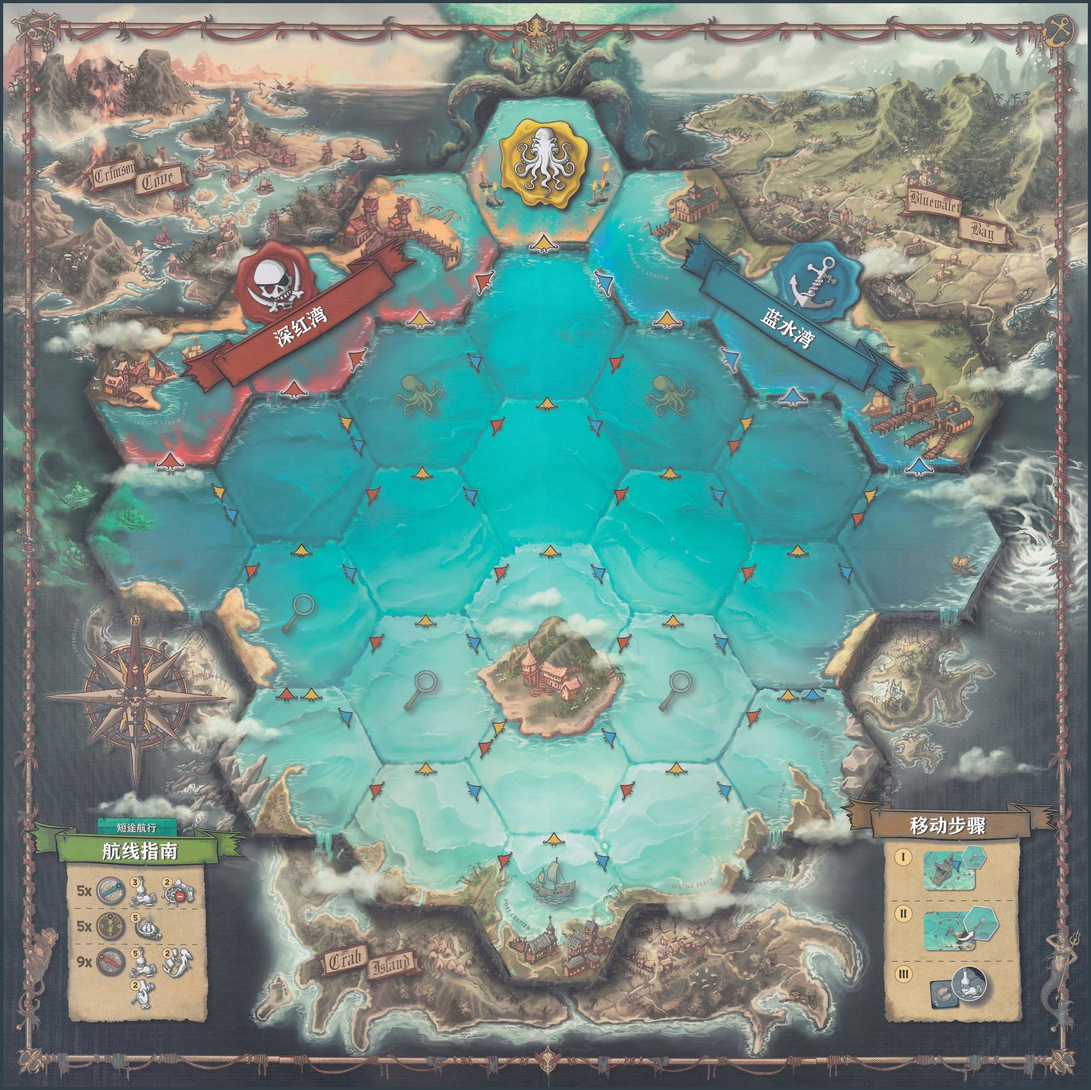
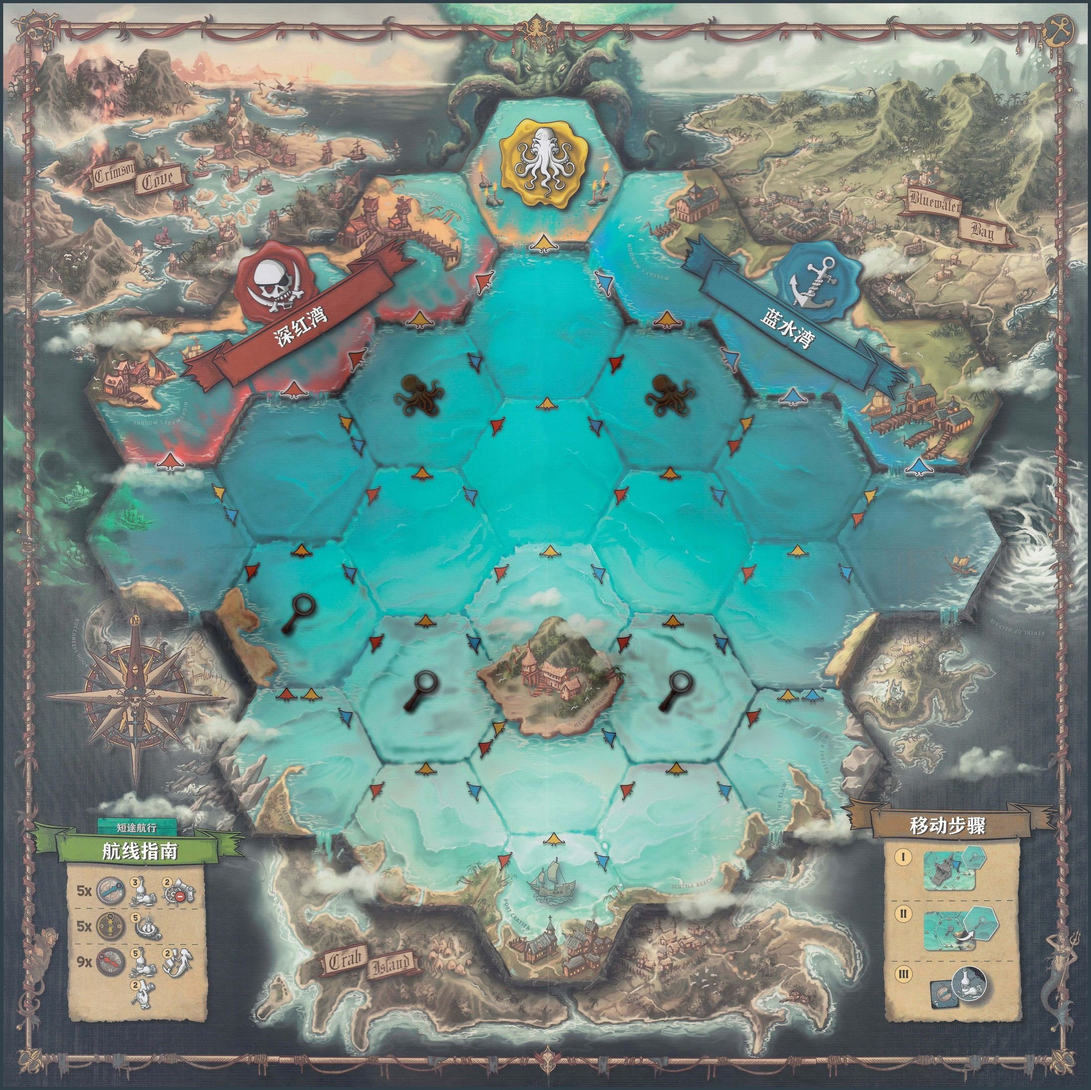
feat(client): drop prologue skip, mask hint, darker map marks, chat captain tag
- Prologue: the 跳过 » pill is gone — the story reads through and the
  ⚓ 登船 click is the only exit (it was also invisible on phones,
  buried under the mobile tab bar).
- Topbar: the faction pill now carries an always-visible
  (点击隐藏身份)/(点击显示身份) hint — the title tooltip is hover-only
  and phones never see it.
- Map: the art's captain-search magnifiers (3) and kraken marks (2)
  were painted too faint for screen scale; each marker region now gets
  a colour-distance + low-saturation darkening pass baked into the jpg
  (local-background contrast pull, feathered mask, no bleed onto
  route arrows or parchment).
- Chat: the sitting captain's messages are tagged 🧭 船长 beside the
  sender name, matching the roster's officer marker.

diff --git a/packages/client/src/StoryPrologue.tsx b/packages/client/src/StoryPrologue.tsx
@@ -3,8 +3,8 @@
  * launch countdown starts (all seats confirmed), every screen swaps to a
  * full-veil reading of the voyage's opening story — three stanzas fading in
  * one after another over the storm-deck art, one every 4 seconds (≈13.6s
- * total). 跳过 » boards at once; when the story completes, a ⚓ 登船 button
- * surfaces — the board takes over only on the player's click.
+ * total). When the story completes, a ⚓ 登船 button surfaces — the board
+ * takes over only on the player's click.
  * Nothing is stored engine-side; sessionStorage per match+seat keeps a
  * mid-game refresh from replaying it.
  *
@@ -20,8 +20,8 @@ import { useEffect, useRef, useState } from 'react';
 import { PROLOGUE_STANZAS } from './labels.js';
 
 /** Reading pace: one stanza every 4s (user-tuned — char-based pacing read
- *  as dead air). 跳过 » always skips straight to the board; after the final
- *  beat holds its 4s, the ⚓ 登船 button appears and waits for the click. */
+ *  as dead air). After the final beat holds its 4s, the ⚓ 登船 button
+ *  appears and waits for the click. */
 const STANZA_EVERY_MS = 4000;
 const FADE_MS = 900;
 
@@ -113,8 +113,8 @@ export function StoryPrologue({
   const [skip, setSkip] = useState(false);
   const [beat, setBeat] = useState(0); // index of the newest stanza on stage
   // The story no longer auto-boards: once the last stanza's slot closes,
-  // 登船 surfaces and the player boards at their own pace (跳过 » still
-  // short-circuits at any time).
+  // 登船 surfaces and the player boards at their own pace. `skip` doubles
+  // as the clicked-guard so 登船 can't fire onDone twice.
   const [read, setRead] = useState(false);
   const seenRef = useRef(false);
   const onDoneRef = useRef(onDone);
@@ -160,15 +160,6 @@ export function StoryPrologue({
           onClick={() => { setSkip(true); onDoneRef.current(); }}
         >
           ⚓ 登船
-        </button>
-      )}
-      {!read && !skip && (
-        <button
-          type="button"
-          className="btn prologue__skip"
-          onClick={() => { setSkip(true); onDoneRef.current(); }}
-        >
-          跳过 »
         </button>
       )}
       {/* (soundOn drives the ambience fire in App — see the mount gate.) */}

diff --git a/packages/client/src/styles.css b/packages/client/src/styles.css
@@ -795,6 +795,9 @@ button:disabled { cursor: not-allowed; }
 .pill--ok { background: rgba(42, 122, 138, 0.18); color: var(--teal-bright); border-color: var(--teal); }
 .pill--bad { background: rgba(178, 58, 72, 0.18); color: #f5b0b8; border-color: var(--blood); }
 .pill--team { background: var(--cult); color: #f0e1f7; border-color: var(--cult); }
+/* The faction pill's always-visible privacy hint: dim sub-text inside the
+   pill (the title tooltip is hover-only, phones never see it). */
+.pill__mask-hint { font-size: 11px; opacity: 0.72; white-space: nowrap; }
 
 .pill--room {
   background: var(--bg-panel-2);
@@ -2535,6 +2538,15 @@ button:disabled { cursor: not-allowed; }
   max-width: 52px; overflow: hidden; text-overflow: ellipsis; white-space: nowrap;
   color: var(--ink-ghost); font-size: 10px; line-height: 1.2;
 }
+/* 船长 tag beside the sender's name — gold, crest-fronted, matching the
+   roster's officer marker (🧭). Width-capped so long names still elide. */
+.chat__captain {
+  display: inline-block;
+  margin-top: 1px;
+  max-width: 52px; overflow: hidden; text-overflow: ellipsis; white-space: nowrap;
+  font-size: 9px;
+  color: var(--gold-bright);
+}
 .chat__bubble {
   max-width: 78%; padding: 6px 11px; border-radius: 12px; font-size: 14px;
   background: var(--bg-panel); border: 1px solid var(--line);
@@ -3336,18 +3348,6 @@ html.ftk-scroll-lock { overflow: hidden; }
 @keyframes prologue-stanza-in {
   from { opacity: 0; transform: translateY(10px); filter: blur(4px); }
   to { opacity: 1; transform: translateY(0); filter: blur(0); }
-}
-.prologue__skip {
-  position: absolute;
-  right: 14px;
-  bottom: 14px;
-  z-index: 2;
-  padding: 6px 14px;
-  font-size: 13px;
-  color: var(--ink-dim);
-  background: rgba(8, 13, 24, 0.6);
-  border: 1px solid var(--line);
-  border-radius: 999px;
 }
 /* 登船: the story ends on a click, not a timer — a prominent centred
    button surfacing under the stanzas (the 跳过 pill retires in the same

diff --git a/packages/client/src/ChatBubble.tsx b/packages/client/src/ChatBubble.tsx
@@ -99,6 +99,12 @@ export function ChatBubble({ view, chat, sendChat, muted, mySeat, myName, myAvat
   };
   // Marks are keyed by engine id ('p3'), chat senders by bgio seat ('2').
   const marksOf = (sender: string): string[] => marks[engineIdOf(sender)] ?? [];
+  // 船长标注: the current captain's messages carry a crest + word tag, so
+  // table talk can be read against the authority (rulebook: the captain
+  // leads discussion). officers.captain is an engine id ('p3').
+  const captainSeat = view?.officers.captain ?? null;
+  const isCaptain = (sender: string): boolean =>
+    captainSeat !== null && engineIdOf(sender) === captainSeat;
 
   const submit = () => {
     const t = text.trim();
@@ -148,7 +154,12 @@ export function ChatBubble({ view, chat, sendChat, muted, mySeat, myName, myAvat
                 return (
                   <div key={m.id} className={'chat__row' + (me ? ' chat__row--me' : '')}>
                     <div className="chat__ava">
-                      <span className="chat__who">{nameOf(m.sender)}</span>
+                      <span className="chat__who">
+                        {nameOf(m.sender)}
+                        {isCaptain(m.sender) && (
+                          <span className="chat__captain" title="船长">🧭 船长</span>
+                        )}
+                      </span>
                       <span className="chat__ava-wrap">
                         <AvatarImage avatarId={avatarOf(m.sender)} size={26} title={nameOf(m.sender)} />
                         <MarkDots playerMarks={marksOf(m.sender)} playerId={m.sender} />

diff --git a/packages/client/src/App.tsx b/packages/client/src/App.tsx
@@ -929,10 +929,10 @@ export function App() {
   const allSeatsConfirmed = view.roleConfirmations.confirmed >= view.roleConfirmations.total;
   // 开场序章 (StoryPrologue): while the shared countdown runs, the whole
   // screen IS the story — the reveal screen (and its countdown number) hides
-  // underneath it. 跳过 or countdown-zero both land in `markLaunched` (the
-  // board); the story never holds the launch up. Seen-flag lives inside the
-  // component (sessionStorage per match+seat): a refresh inside the window
-  // skips straight through.
+  // underneath it. The ⚓ 登船 click lands in `markLaunched` (the board); the
+  // story never holds the launch up — it just waits for the click. Seen-flag
+  // lives inside the component (sessionStorage per match+seat): a refresh
+  // inside the window skips straight through.
   if (counting) {
     return shell(
       <div className="app app--lobby">
@@ -1003,6 +1003,11 @@ export function App() {
             {factionMasked ? '❓' : (
               <span className="pill__team-word">{FACTION_LABEL[view.you.team]}{view.you.cultLeader ? ' · 首领' : ''}</span>
             )}
+            {/* 常显提示 (the title tooltip is hover-only — phones never
+                see it): the pill is a privacy mask, say so on its face. */}
+            <span className="pill__mask-hint">
+              {factionMasked ? '(点击显示身份)' : '(点击隐藏身份)'}
+            </span>
           </button>
           {view.isHost && <span className="pill pill--host">房主</span>}
         </div>
